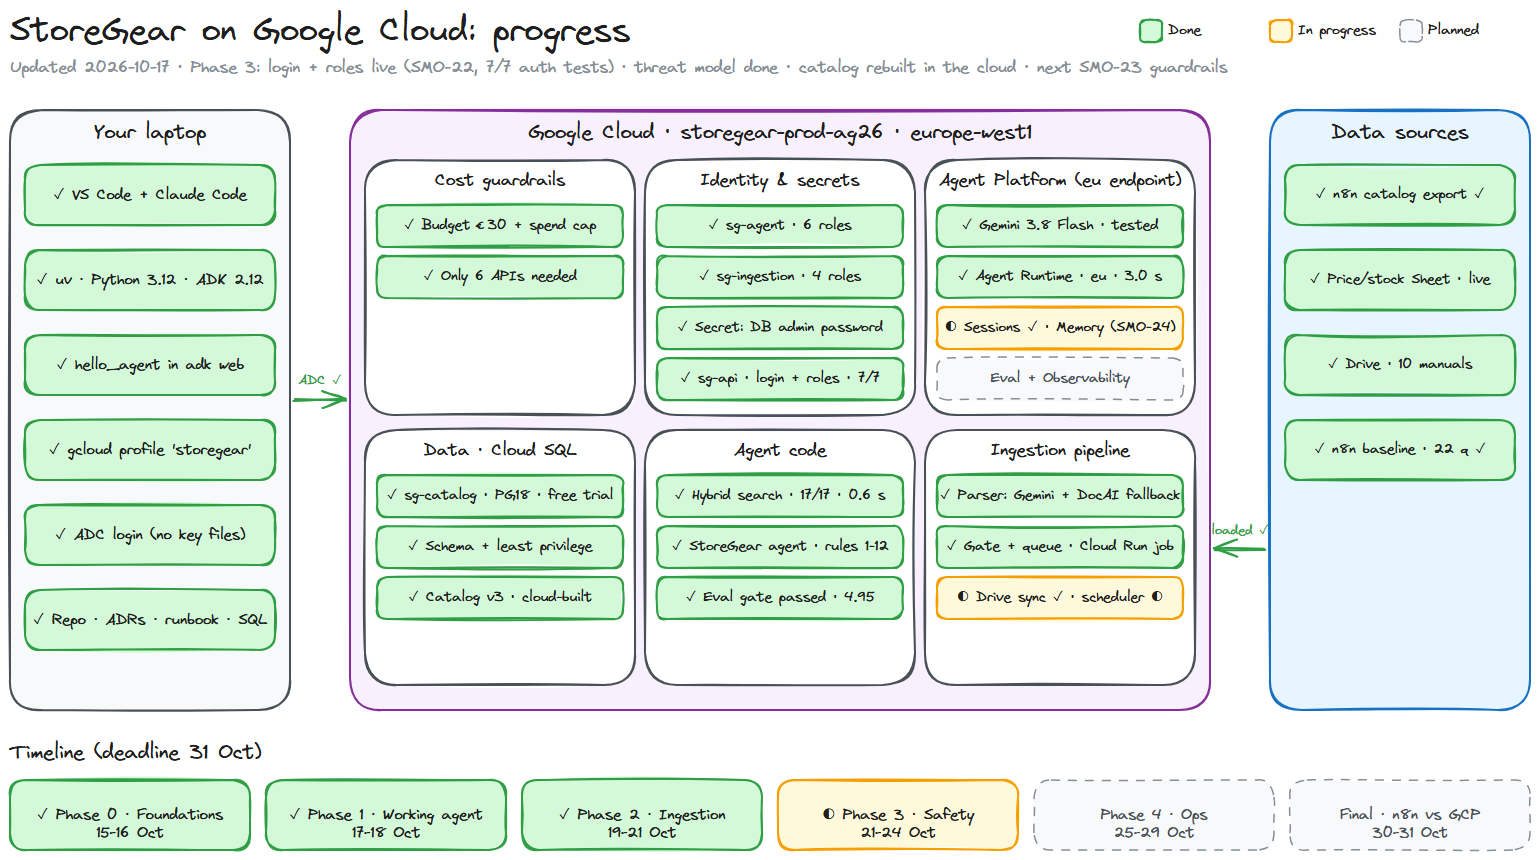
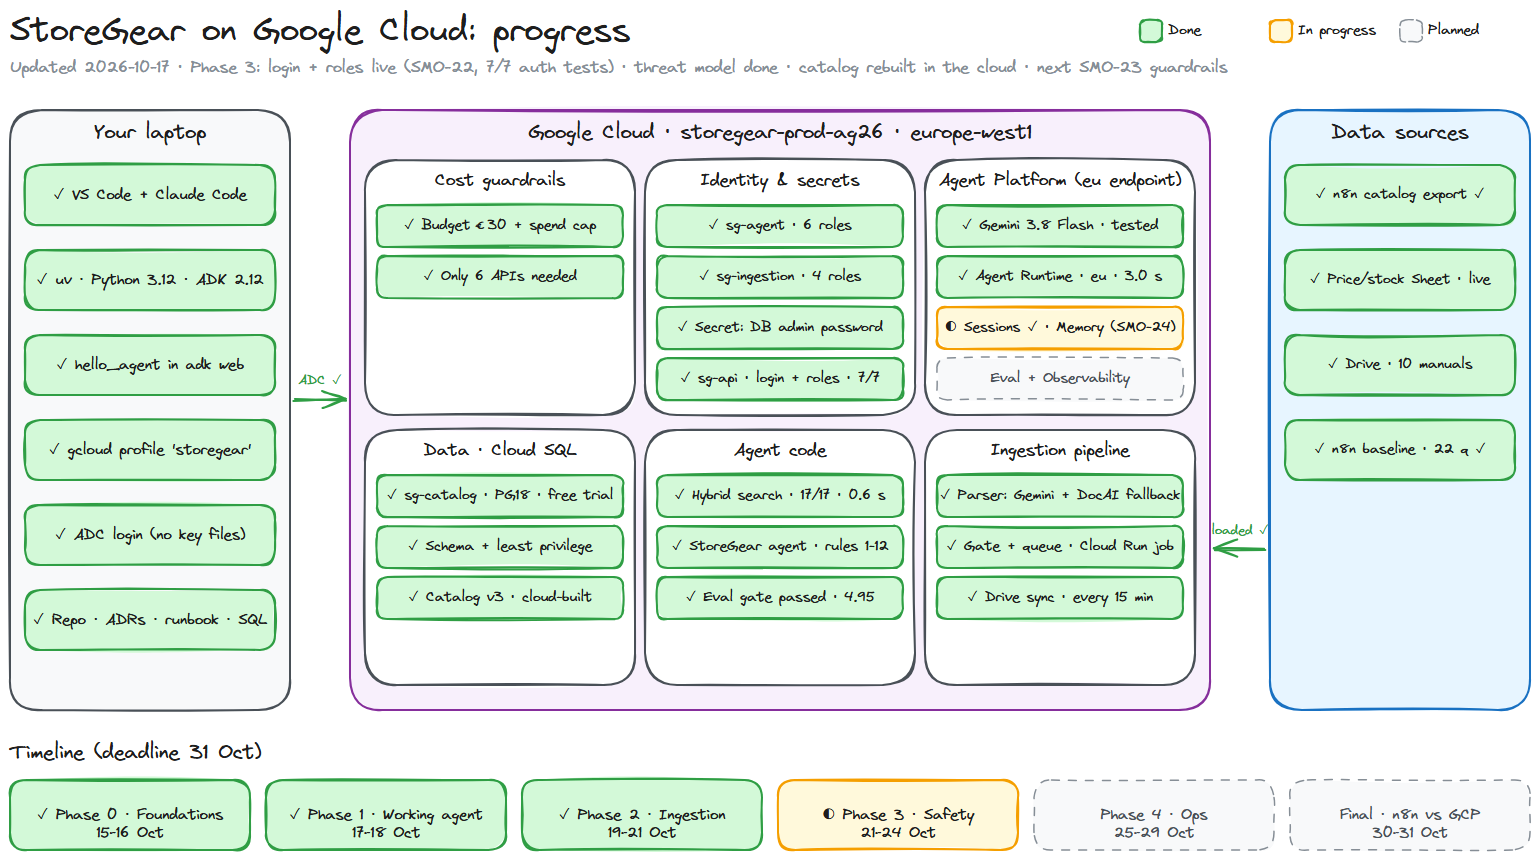
SMO-20 done: scheduler verified (sync every 15 min); ENTRYPOINT fix; lessons in ADR-012, build log, runbook

Changed region(s): [[0.5922, 0.6651, 0.7792, 0.7256]]

diff --git a/docs/diagram/build_progress_diagram.js b/docs/diagram/build_progress_diagram.js
@@ -47,7 +47,7 @@ const GCP = [ // [title, items]
   ['Ingestion pipeline', [
     ['done', 'Parser: Gemini + DocAI fallback'],
     ['done', 'Gate + queue · Cloud Run job'],
-    ['wip', 'Drive sync ✓ · scheduler ◐'],
+    ['done', 'Drive sync · every 15 min'],
   ]],
 ];
 const SOURCES = [

diff --git a/docs/build-log.md b/docs/build-log.md
@@ -251,16 +251,18 @@ Bilingual diary (EN + ES), one entry per Linear issue. It feeds the thesis annex
 ## 15 · Drive sync + catalog rebuilt by the cloud pipeline (SMO-20) — 2026-10-21
 
 ### EN
-- **What:** ADR-012: a reconciliation loop (`ingestion/sync.py`, run by the job with `--sync`) compares Drive (desired) with the queue and catalog (actual) and enqueues upserts, moves (version key `md5:access`) and deletes; an empty listing never deletes. Full rebuild into `_v3` by 3 parallel tasks in 31 min; `fold_common` rebuilt the 13 shared Polar sections; eval 4.95/5/5/5; swapped live with the queue history. Cloud Scheduler trigger configured but not dispatching (Google-side).
+- **What:** ADR-012: a reconciliation loop (`ingestion/sync.py`, run by the job with `--sync`) compares Drive (desired) with the queue and catalog (actual) and enqueues upserts, moves (version key `md5:access`) and deletes; an empty listing never deletes. Full rebuild into `_v3` by 3 parallel tasks in 31 min; `fold_common` rebuilt the 13 shared Polar sections; eval 4.95/5/5/5; swapped live with the queue history. Cloud Scheduler every 15 min, verified (SYNC_DONE 10 listed, 0 queued).
 - **Why:** Drive is the source of truth; the catalog must follow it without anyone running scripts.
 - **Learned:** (1) **Reconciliation beats events** at this scale: it can't miss a change, and a failed run is fixed by the next one. (2) **Parallel workers for free:** `SKIP LOCKED` meant three Cloud Run tasks shared the queue with zero coordination code, and a 504 on one manual was absorbed by another worker. (3) **Move the bookkeeping with the data:** the swap also re-targets the queue rows, or the live sync would have re-ingested everything.
-- **Next:** confirm the scheduler; SMO-21.
+- **Also learned:** a newly enabled API (Cloud Scheduler) dispatched nothing for ~1 h 45 min; and Cloud Run job arguments REPLACE the image CMD (use ENTRYPOINT).
+- **Next:** SMO-21.
 
 ### ES
-- **Qué:** ADR-012: un bucle de reconciliación (`ingestion/sync.py`, lo ejecuta el job con `--sync`) compara Drive (estado deseado) con la cola y el catálogo (estado real) y encola altas, cambios, movimientos (clave de versión `md5:acceso`) y bajas; un listado vacío nunca borra. Reconstrucción completa en `_v3` con 3 tareas en paralelo en 31 min; `fold_common` recreó las 13 secciones comunes de Polar; eval 4,95/5/5/5; activado junto con el historial de la cola. El disparador de Cloud Scheduler está configurado pero no se ejecuta (problema de Google).
+- **Qué:** ADR-012: un bucle de reconciliación (`ingestion/sync.py`, lo ejecuta el job con `--sync`) compara Drive (estado deseado) con la cola y el catálogo (estado real) y encola altas, cambios, movimientos (clave de versión `md5:acceso`) y bajas; un listado vacío nunca borra. Reconstrucción completa en `_v3` con 3 tareas en paralelo en 31 min; `fold_common` recreó las 13 secciones comunes de Polar; eval 4,95/5/5/5; activado junto con el historial de la cola. Cloud Scheduler cada 15 min, verificado (SYNC_DONE: 10 listados, 0 encolados).
 - **Por qué:** Drive es la fuente de verdad; el catálogo tiene que seguirla sin que nadie lance scripts.
 - **Aprendido:** (1) **La reconciliación gana a los eventos** a esta escala: no puede perder un cambio, y una ejecución fallida la arregla la siguiente. (2) **Workers en paralelo gratis:** con `SKIP LOCKED`, tres tareas de Cloud Run se repartieron la cola sin código de coordinación, y un 504 en un manual lo absorbió otro worker. (3) **Mover la contabilidad con los datos:** el cambio de tablas también reasigna las filas de la cola; si no, la sincronización habría vuelto a procesarlo todo.
-- **Siguiente:** confirmar el scheduler; SMO-21.
+- **También:** una API recién activada (Cloud Scheduler) no ejecutó nada durante ~1 h 45 min; y los argumentos de un job de Cloud Run SUSTITUYEN al CMD de la imagen (hay que usar ENTRYPOINT).
+- **Siguiente:** SMO-21.
 
 ---
 

diff --git a/docs/adr/012-drive-sync.md b/docs/adr/012-drive-sync.md
@@ -38,7 +38,7 @@ Drive is the source of truth: the shop drops manuals into **"Shop Assitant"** (`
 - **Sync:** lists both folders (10 PDFs: 9 `staff`, 1 `manager`), enqueues differences; a second run enqueues 0.
 - **Full rebuild into `_v3`** by the Cloud Run job with **3 parallel tasks** (the queue's `SKIP LOCKED` split the 10 manuals with no collisions): 31 min. One manual hit an `eu` **504** and was retried by another worker 6 min later, untouched by anyone. `fold_common` rebuilt the 13 shared Polar sections. 12,574 chunks, 0 orphans, 0 quarantined, 2 Document AI batches.
 - **Gate:** eval 4.95 / 5.00 / 5.00 / 5.00, right manual in the top 5 17/17 (first 15/17), role filter OK, input tokens +14 % vs the laptop-built catalog. Swapped live with `007_swap_catalog_v3.sql` (queue rows moved with the tables, so the live sync enqueues 0). Deployed agent Q6 and Q18: 5/5/5/5.
-- **Trigger:** job default argument `--sync`; Cloud Run Invoker granted **on the job** to `sg-ingestion`. **Open:** Cloud Scheduler does not dispatch in this project (any job, any region, even an unauthenticated probe; deletes fail with "sync mutate calls cannot be queued"); API enabled the same day, no Google incident. Plan B if it persists: a scheduled Cloud Build trigger.
+- **Trigger:** job default argument `--sync`; Cloud Run Invoker granted **on the job** to `sg-ingestion`. For the first ~1 h 45 min after the API was enabled, Cloud Scheduler dispatched nothing in the project (any job, any region, even an unauthenticated probe; deletes failed with "sync mutate calls cannot be queued"); no Google incident; then it started on its own: **a new API can take well over an hour to be fully active.** The first scheduled run then failed to start: **Cloud Run job arguments replace the image `CMD`** (they are appended only to an `ENTRYPOINT`), so `--sync` ran as the program. Fixed on the job (command `/app/.venv/bin/python`, args `ingestion/worker.py --sync`) and in the Dockerfile (`ENTRYPOINT`). Verified: `SYNC_DONE` listed 10 · upserts 0 · deletes 0, every 15 min.
 
 ## Revisit when
 Manuals must be searchable within seconds of upload, or the folder grows to thousands of files (then: `changes.list` with a stored page token instead of full listings).

diff --git a/infra/runbook.md b/infra/runbook.md
@@ -232,7 +232,9 @@ uv run python infra/sql/apply.py infra/sql/007_swap_catalog_v3.sql   # one trans
 #  Job default argument --sync; Cloud Run Invoker ON the job for sg-ingestion:
 gcloud run jobs add-iam-policy-binding sg-ingest-worker --region europe-west1 --member=serviceAccount:sg-ingestion@storegear-prod-ag26.iam.gserviceaccount.com --role=roles/run.invoker
 gcloud scheduler jobs create http sg-ingest-sync --location europe-west1 --schedule="*/15 * * * *" --time-zone="Europe/Madrid" --http-method=POST --uri="https://europe-west1-run.googleapis.com/apis/run.googleapis.com/v1/namespaces/storegear-prod-ag26/jobs/sg-ingest-worker:run" --oauth-service-account-email=sg-ingestion@storegear-prod-ag26.iam.gserviceaccount.com
-# OPEN (21 Oct): Cloud Scheduler doesn't dispatch in this project; stuck jobs sg-ingest-sync-15min + zz-scheduler-probe (x2) to delete
+# Cloud Scheduler needed ~1 h 45 min after enabling the API before it dispatched anything.
+# Job command (args REPLACE the image CMD; from PowerShell, quote the comma list):
+#   gcloud run jobs update sg-ingest-worker --region europe-west1 --command=/app/.venv/bin/python "--args=ingestion/worker.py,--sync"
 ```
 
 ## SMO-22 · Login and roles (2026-10-21; ADR-014)

diff --git a/docs/progress.md b/docs/progress.md
@@ -101,7 +101,7 @@ We are rebuilding the StoreGear shop assistant, today a working n8n agent, entir
 ### 15. Drive sync and a catalog rebuilt in the cloud (SMO-20)
 - **What:** every run, the job compares the two Drive folders with what's in the catalog and queues the differences (new, changed, moved between staff and manager, deleted). If Drive ever returns zero files, nothing is deleted.
 - **The Phase 2 test:** the whole catalog rebuilt from scratch by the cloud pipeline, three workers in parallel, 31 minutes. One manual hit a Google timeout and another worker finished it on its own. Same quality as before (4.95 / 5 / 5 / 5), now live.
-- **Open:** Cloud Scheduler isn't firing anything in the project yet (a Google-side problem; re-checking).
+- **Automatic every 15 minutes** since 21 Oct. It took two surprises: a newly enabled Google API needed ~1 h 45 min to start working, and the job's argument replaced its start command instead of being added to it.
 
 ### 16. Threat model (SMO-21)
 - What we protect (the internal document, prices, conversations), from whom, and through which doors, checked against the OWASP lists for AI apps and agents. Every risk has a defence or a written reason to accept it.
